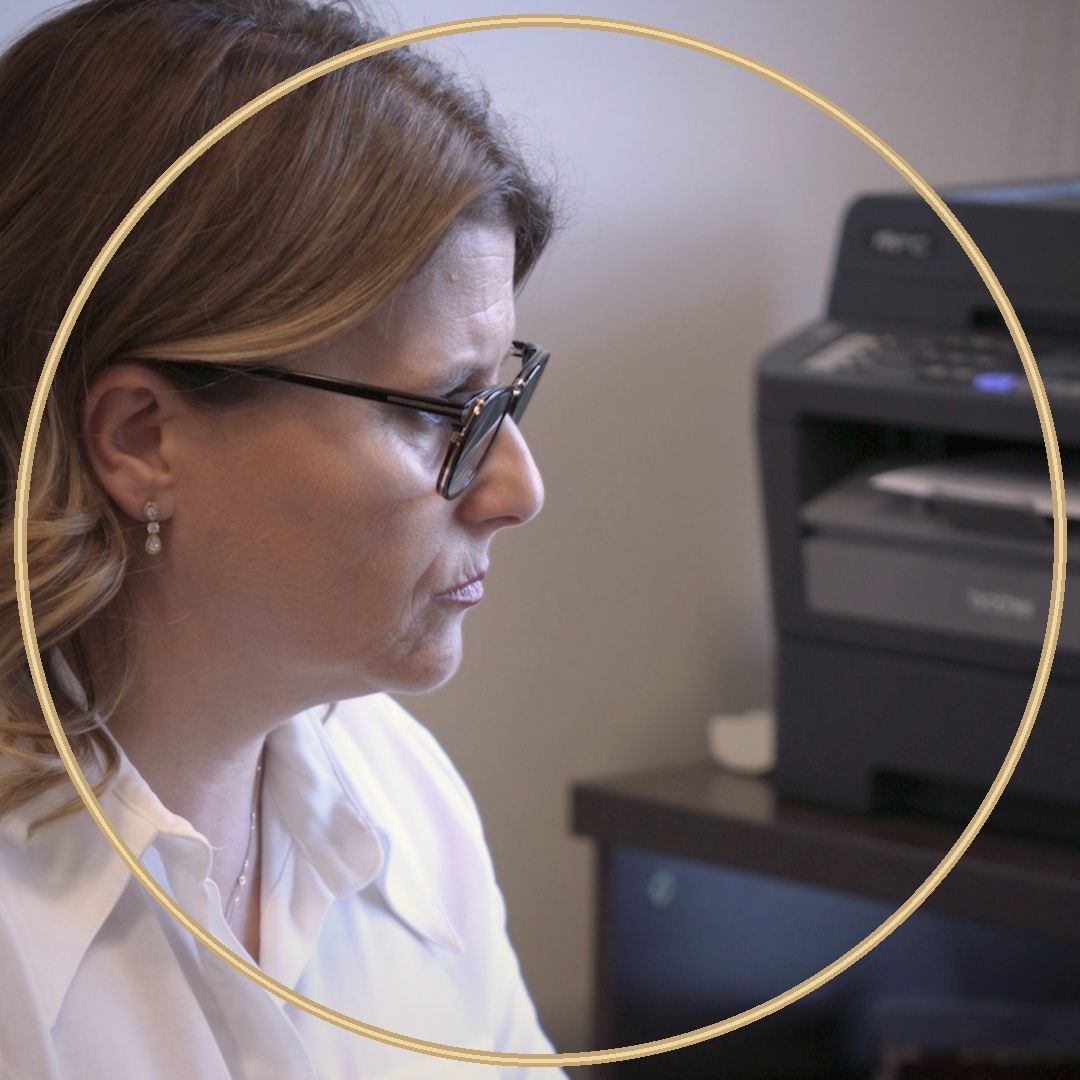
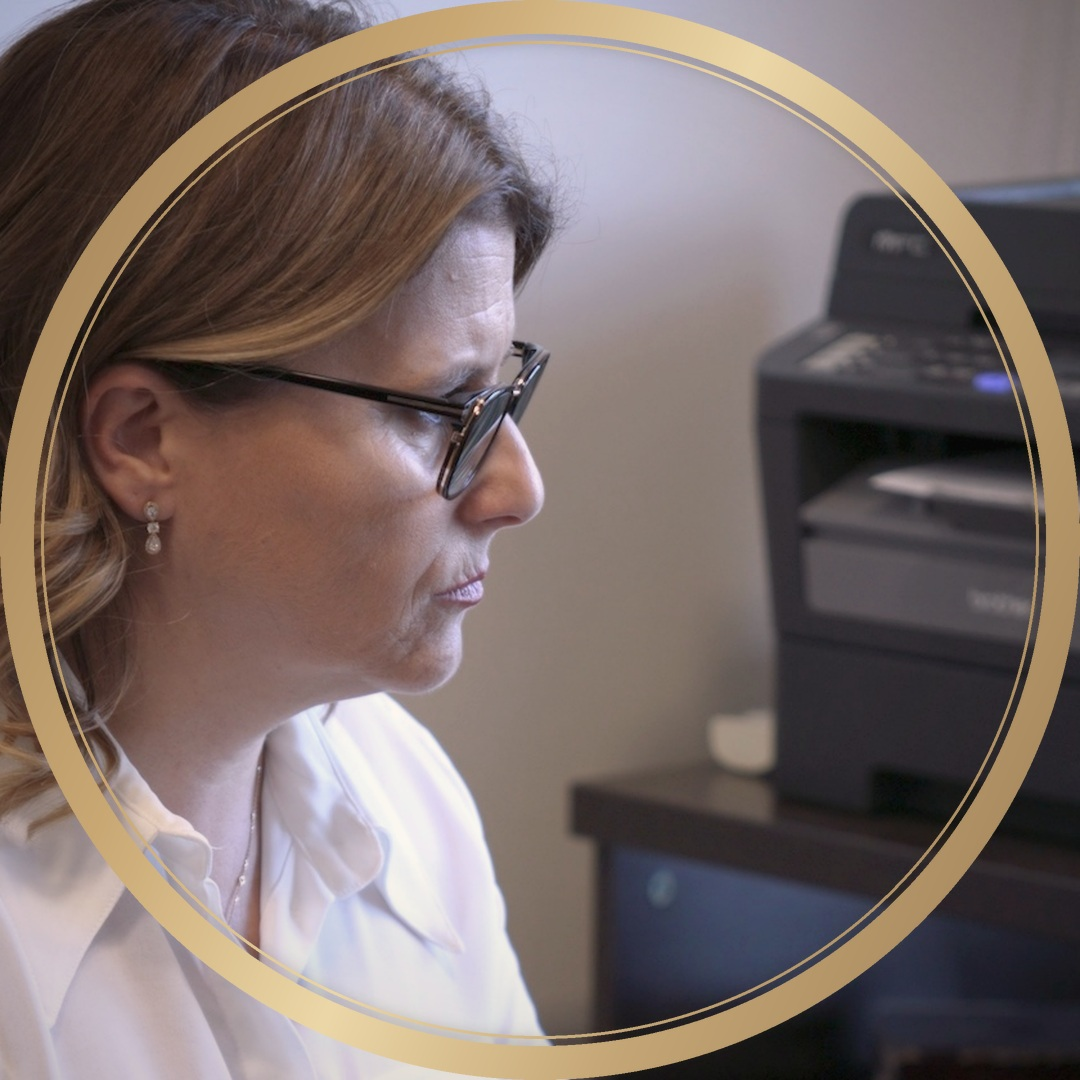
Kit Instagram: círculo dourado do logótipo nas fotos de perfil
Claude-Session: https://claude.ai/code/session_011GuU4FWcGt2gAwoDV6aCC4

Changed region(s): [[0.0, 0.0, 1.0, 1.0]]

diff --git a/estrategia/instagram-kit.html b/estrategia/instagram-kit.html
@@ -89,7 +89,7 @@ footer{font-size:12px;color:var(--suave);border-top:1px solid var(--linha);paddi
 <section>
   <div class="sec"><span class="n">2</span><h2>Preencher o perfil</h2></div>
   <div class="perfil">
-    <div style="display:flex;flex-direction:column;gap:8px;align-items:flex-start"><img src="instagram/perfil-telemovel.jpg" alt="Foto de perfil: a Dra. Sónia ao telemóvel"><span class="lbl">Foto de perfil</span><a class="dl" href="instagram/perfil-telemovel.jpg" target="_blank" rel="noopener">Abrir para guardar (sem anel)</a><a class="dl" href="instagram/perfil-telemovel-anel.jpg" target="_blank" rel="noopener">Versão com anel dourado</a><a class="dl" href="instagram/perfil-escritorio.jpg" target="_blank" rel="noopener">Alternativa: no escritório</a><a class="dl" href="whatsapp/foto-perfil.jpg" target="_blank" rel="noopener">Alternativa: selo do escritório</a></div>
+    <div style="display:flex;flex-direction:column;gap:8px;align-items:flex-start"><img src="instagram/perfil-telemovel-anel.jpg" alt="Foto de perfil: a Dra. Sónia ao telemóvel, com círculo dourado"><span class="lbl">Foto de perfil</span><a class="dl" href="instagram/perfil-telemovel.jpg" target="_blank" rel="noopener">Abrir para guardar (sem anel)</a><a class="dl" href="instagram/perfil-telemovel-anel.jpg" target="_blank" rel="noopener">Com círculo dourado (recomendada)</a><a class="dl" href="instagram/perfil-escritorio-anel.jpg" target="_blank" rel="noopener">Alternativa: no escritório, com círculo dourado</a><a class="dl" href="whatsapp/foto-perfil.jpg" target="_blank" rel="noopener">Alternativa: selo do escritório</a></div>
     <div class="campos" id="campos"></div>
   </div>
 </section>
